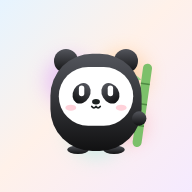
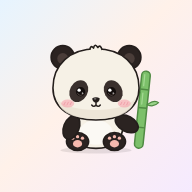
Redesenha o panda em estilo chibi, mais fofo e animado
Cabeça grande, corpo pequeno, olhos escuros e brilhantes, bochechas
rosadas e patinhas com almofadas rosa. Orelhas e patinhas ganham
movimento, e os brilhos/corações voltam a aparecer no lugar certo.
Ícones do app regenerados.

Claude-Session: https://claude.ai/code/session_01Tv7QxRH9SMgdERGyotspDp

Changed region(s): [[0.25, 0.2188, 0.8438, 0.8125]]

diff --git a/panda.js b/panda.js
@@ -25,55 +25,68 @@
     mao: { '': 'Nada', bambu: 'Segurando bambu' },
   };
 
-  /* ---------- partes do desenho ---------- */
+  /* ---------- partes do desenho ----------
+     Estilo "chibi": cabeça grande, corpo pequeno, olhos escuros e brilhantes dentro
+     das manchas, focinho miúdo, bochechas rosadas e patinhas com almofadas rosa. */
+  const OLHO = '#120d0c';       // olho (mais escuro que a mancha)
+  const MANCHA = '#3a302d';     // manchas dos olhos
+  const SOMBRA = '#ebe2d3';     // sombra suave do pelo claro
+  const ALMOFADA = '#f6b9ae';   // almofadinhas rosa
+  const EX = 75, DX = 125, OY = 98; // centro dos olhos
+
   function olhos(h) {
-    const L = 76, R = 124, Y = 90;
-    // A pupila fica num grupo próprio para poder seguir o mouse/dedo.
-    const aberto = (x, dy = 0) => `<circle cx="${x}" cy="${Y}" r="8" fill="${BR}"/><g class="pupila"><circle cx="${x + .5}" cy="${Y + 1 + dy}" r="6" fill="#1a1514"/>` +
-      `<circle cx="${x - 2}" cy="${Y - 2 + dy}" r="2.4" fill="${BR}"/><circle cx="${x + 2.6}" cy="${Y + 3 + dy}" r="1.2" fill="${BR}"/></g>`;
-    const arco = (x, d) => `<path d="M${x - 8} ${Y} q8 ${d} 16 0" fill="none" stroke="${BR}" stroke-width="3.5" stroke-linecap="round"/>`;
-    const meio = x => `<path d="M${x - 8} ${Y} a8 8 0 0 0 16 0 z" fill="${BR}"/><g class="pupila"><circle cx="${x}" cy="${Y + 3}" r="3.6" fill="#1a1514"/></g>`;
+    // O olho inteiro fica num grupo próprio para poder seguir o mouse/dedo.
+    const aberto = (x, o = {}) => `<g class="pupila"><circle cx="${x}" cy="${OY + (o.dy || 0)}" r="${o.r || 7.6}" fill="${OLHO}"/>` +
+      `<path d="M${x - 5} ${OY + 2.5 + (o.dy || 0)} a5.4 5.4 0 0 0 10 0" fill="none" stroke="#7a6862" stroke-width="1.3" stroke-linecap="round" opacity=".7"/>` +
+      `<circle cx="${x - 2.4}" cy="${OY - 2.6 + (o.dy || 0)}" r="${o.brilho || 2.7}" fill="${BR}"/><circle cx="${x + 3}" cy="${OY + 2.2 + (o.dy || 0)}" r="1.2" fill="${BR}"/>` +
+      (o.extra ? `<circle cx="${x + 2.6}" cy="${OY - 3.4 + (o.dy || 0)}" r="1" fill="${BR}"/>` : '') + `</g>`;
+    const arco = (x, d) => `<path d="M${x - 7.5} ${OY + (d < 0 ? 2 : -1)} q7.5 ${d} 15 0" fill="none" stroke="${B}" stroke-width="3" stroke-linecap="round"/>`;
+    // Pálpebra na cor da mancha: "corta" o olho (reto = preguiça, inclinado = bravo).
+    const palpebra = (x, incl) => `<path d="M${x - 11} ${OY - 12} H${x + 11} V${OY - 1 + incl} L${x - 11} ${OY - 1 - incl} Z" fill="${MANCHA}"/>`;
     switch (h) {
-      case 'feliz': return arco(L, -9) + arco(R, -9);
-      case 'dormindo': return arco(L, 7) + arco(R, 7);
-      case 'bravo': return meio(L) + meio(R);
-      case 'preguica': return meio(L) + meio(R) + `<path d="M${L - 9} ${Y}h18M${R - 9} ${Y}h18" stroke="${B}" stroke-width="3" stroke-linecap="round"/>`;
-      case 'triste': return aberto(L, 2) + aberto(R, 2);
-      default: return aberto(L) + aberto(R);
+      case 'feliz': return arco(EX, -8) + arco(DX, -8);
+      case 'dormindo': return arco(EX, 6) + arco(DX, 6) +
+        `<path d="M${EX - 8} ${OY + 1} l-3 2 M${DX + 8} ${OY + 1} l3 2" stroke="${B}" stroke-width="2" stroke-linecap="round"/>`;
+      case 'bravo': return aberto(EX, { r: 7 }) + aberto(DX, { r: 7 }) + palpebra(EX, 4) + palpebra(DX, -4);
+      case 'preguica': return aberto(EX, { dy: 1 }) + aberto(DX, { dy: 1 }) + palpebra(EX, 0) + palpebra(DX, 0) +
+        `<path d="M${EX - 8} ${OY - 1}h16M${DX - 8} ${OY - 1}h16" stroke="${B}" stroke-width="2.2" stroke-linecap="round" opacity=".85"/>`;
+      case 'triste': return aberto(EX, { dy: 1.5, brilho: 3.2, extra: true }) + aberto(DX, { dy: 1.5, brilho: 3.2, extra: true });
+      default: return aberto(EX) + aberto(DX);
     }
   }
 
   function boca(h) {
-    const s = `fill="none" stroke="${C}" stroke-width="3" stroke-linecap="round" stroke-linejoin="round"`;
+    const s = `fill="none" stroke="${C}" stroke-width="2.4" stroke-linecap="round" stroke-linejoin="round"`;
     switch (h) {
-      case 'feliz': return `<path d="M90 111 Q100 127 110 111 Z" fill="#5a2a2f" stroke="${C}" stroke-width="2.5" stroke-linejoin="round"/><ellipse cx="100" cy="119" rx="5" ry="3" fill="${ROSA}"/>`;
-      case 'triste': return `<path d="M92 120 q8 -8 16 0" ${s}/>`;
-      case 'bravo': return `<path d="M90 119 l5 -4 l5 4 l5 -4 l5 4" ${s}/>`;
-      case 'dormindo': return `<ellipse cx="100" cy="116" rx="3.5" ry="4.5" fill="${C}"/>`;
-      case 'preguica': return `<path d="M94 115 q6 2 12 0" ${s}/>`;
-      default: return `<path d="M92 111 q4 5 8 0 q4 5 8 0" ${s}/>`;
+      case 'feliz': return `<path d="M92 119 Q100 132 108 119 Z" fill="#6b2f36" stroke="${C}" stroke-width="2.2" stroke-linejoin="round"/><ellipse cx="100" cy="125.5" rx="4" ry="2.4" fill="${ROSA}"/>`;
+      case 'triste': return `<path d="M94 125 q6 -6 12 0" ${s}/>`;
+      case 'bravo': return `<path d="M94 125 q6 -5 12 0" ${s}/>`;
+      case 'dormindo': return `<ellipse cx="100" cy="123" rx="2.8" ry="3.6" fill="${C}"/>`;
+      case 'preguica': return `<path d="M95 122 q5 2 10 0" ${s}/>`;
+      default: return `<path d="M100 115.5 v3 M93 119.5 q3.5 4.5 7 0 q3.5 4.5 7 0" ${s}/>`;
     }
   }
 
   function sobrancelhas(h) {
     const s = `fill="none" stroke="${C}" stroke-width="3.2" stroke-linecap="round"`;
-    if (h === 'bravo') return `<path d="M60 64 L84 73 M140 64 L116 73" ${s}/>`;
-    if (h === 'triste') return `<path d="M62 72 L82 66 M138 72 L118 66" ${s}/>`;
+    if (h === 'bravo') return `<path d="M57 73 L83 83 M143 73 L117 83" ${s}/>`;
+    if (h === 'triste') return `<path d="M58 78 L78 72 M142 78 L122 72" ${s}/>`;
     return '';
   }
 
   function extrasRosto(h) {
     let s = '';
-    if (h === 'triste') s += `<path class="lagrima" d="M68 104 q-5 8 0 11 q5 -3 0 -11z" fill="#7cc3f5"/>`;
-    if (h === 'bravo') s += `<path d="M146 44 q5 5 0 10 M156 44 q-5 5 0 10 M146 44 q5 5 10 0 M146 54 q5 -5 10 0" fill="none" stroke="${VERMELHO}" stroke-width="3" stroke-linecap="round"/>`;
+    if (h === 'triste') s += `<path class="lagrima" d="M64 112 q-4.5 7.5 0 10 q4.5 -2.5 0 -10z" fill="#8ccdf7" stroke="#5aa9dc" stroke-width="1"/>`;
+    if (h === 'bravo') s += `<path d="M160 30 q5 5 0 10 M170 30 q-5 5 0 10 M160 30 q5 5 10 0 M160 40 q5 -5 10 0" fill="none" stroke="${VERMELHO}" stroke-width="3" stroke-linecap="round"/>`;
     return s;
   }
 
   function cabecaAcessorio(a) {
     switch (a) {
-      case 'chapeu': return `<path d="M56 52 Q58 12 100 10 Q142 12 144 52 Z" fill="#cdb98a" stroke="#a8925f" stroke-width="2.5"/>` +
-        `<path d="M58 44 Q100 34 142 44" fill="none" stroke="#a8925f" stroke-width="5"/>` +
-        `<ellipse cx="100" cy="53" rx="74" ry="14" fill="#d8c597" stroke="#a8925f" stroke-width="2.5"/>`;
+      case 'chapeu': return `<path d="M56 52 Q58 12 100 10 Q142 12 144 52 Z" fill="#d6c594" stroke="#a8925f" stroke-width="2.5" stroke-linejoin="round"/>` +
+        `<path d="M100 11 V44 M72 20 Q80 34 78 46 M128 20 Q120 34 122 46" fill="none" stroke="#a8925f" stroke-width="1.5" stroke-dasharray="3 3" opacity=".8"/>` +
+        `<path d="M58 44 Q100 34 142 44" fill="none" stroke="#a8925f" stroke-width="4"/>` +
+        `<path d="M26 56 Q100 30 174 56 Q178 66 166 68 Q100 50 34 68 Q22 66 26 56 Z" fill="#e0d0a2" stroke="#a8925f" stroke-width="2.5" stroke-linejoin="round"/>`;
       case 'bone': return `<path d="M42 66 Q44 10 100 8 Q156 10 158 66 Q100 50 42 66 Z" fill="${VERMELHO}" stroke="${VERMELHO_E}" stroke-width="2.5"/>` +
         `<path d="M100 9 V58" stroke="${VERMELHO_E}" stroke-width="2"/><circle cx="100" cy="10" r="5" fill="${VERMELHO_E}"/>` +
         `<path d="M148 58 Q182 48 194 62 Q172 74 150 70 Z" fill="#3b6fd8" stroke="#2c56b0" stroke-width="2.5"/>`;
@@ -87,28 +100,30 @@
         `<circle cx="76" cy="52" r="1.8" fill="#7d8593"/><circle cx="124" cy="52" r="1.8" fill="#7d8593"/><circle cx="76" cy="64" r="1.8" fill="#7d8593"/><circle cx="124" cy="64" r="1.8" fill="#7d8593"/>` +
         `<ellipse cx="100" cy="62" rx="5.5" ry="4.2" fill="#6b7280"/><circle cx="93.5" cy="55.5" r="2.2" fill="#6b7280"/><circle cx="100" cy="53.5" r="2.2" fill="#6b7280"/><circle cx="106.5" cy="55.5" r="2.2" fill="#6b7280"/>`;
       case 'fone': return `<path d="M38 92 Q38 18 100 18 Q162 18 162 92" fill="none" stroke="#4d6b40" stroke-width="9" stroke-linecap="round"/>` +
-        `<rect x="24" y="74" width="24" height="38" rx="11" fill="#6b8f5a" stroke="#4d6b40" stroke-width="2.5"/>` +
-        `<rect x="152" y="74" width="24" height="38" rx="11" fill="#6b8f5a" stroke="#4d6b40" stroke-width="2.5"/>`;
+        `<rect x="24" y="74" width="24" height="38" rx="11" fill="#7d9c6a" stroke="#4d6b40" stroke-width="2.5"/>` +
+        `<rect x="152" y="74" width="24" height="38" rx="11" fill="#7d9c6a" stroke="#4d6b40" stroke-width="2.5"/>` +
+        `<path d="M30 84 v16 M170 84 v16" stroke="#a9c495" stroke-width="3" stroke-linecap="round"/>`;
       default: return '';
     }
   }
 
   function rostoAcessorio(a) {
-    if (a === 'oculos') return `<rect x="55" y="77" width="40" height="27" rx="12" fill="${C}"/><rect x="105" y="77" width="40" height="27" rx="12" fill="${C}"/>` +
-      `<path d="M95 86 q5 -4 10 0 M55 84 L38 80 M145 84 L162 80" fill="none" stroke="${C}" stroke-width="4" stroke-linecap="round"/>` +
-      `<path d="M62 85 l9 -4 M112 85 l9 -4" stroke="${B}" stroke-opacity=".55" stroke-width="3" stroke-linecap="round"/>`;
-    if (a === 'bambuBoca') return `<path d="M38 108 Q48 118 60 116 M140 116 Q152 118 162 108" fill="none" stroke="#3a3d44" stroke-width="3" stroke-linecap="round"/>` +
-      `<rect x="58" y="109" width="84" height="15" rx="7.5" fill="${VERDE}" stroke="${VERDE_E}" stroke-width="2.5"/>` +
-      `<path d="M84 109v15M116 109v15" stroke="${VERDE_E}" stroke-width="2.5"/>`;
+    if (a === 'oculos') return `<rect x="55" y="77" width="40" height="27" rx="12" fill="#17181c"/><rect x="105" y="77" width="40" height="27" rx="12" fill="#17181c"/>` +
+      `<path d="M95 86 q5 -4 10 0 M55 84 L38 80 M145 84 L162 80" fill="none" stroke="#17181c" stroke-width="4" stroke-linecap="round"/>` +
+      `<path d="M62 85 l9 -4 M112 85 l9 -4" stroke="#ffffff" stroke-opacity=".5" stroke-width="3" stroke-linecap="round"/>`;
+    if (a === 'bambuBoca') return `<rect x="62" y="110" width="76" height="13" rx="6.5" fill="${VERDE}" stroke="${VERDE_E}" stroke-width="2.2"/>` +
+      `<path d="M86 110v13M114 110v13" stroke="${VERDE_E}" stroke-width="2.2"/>` +
+      `<path d="M138 114 q10 -8 16 -3 q-7 7 -16 3z" fill="#9ad38a" stroke="${VERDE_E}" stroke-width="1.8"/>`;
     return '';
   }
 
+  // A posição fica num <g> de fora: a animação CSS usa "transform" e apagaria o translate.
   function efeitos(h) {
-    const coracao = (x, y, cls) => `<path class="fx ${cls}" transform="translate(${x} ${y})" d="M0 3 C0 -2 -7 -2 -7 3 C-7 7 0 11 0 11 C0 11 7 7 7 3 C7 -2 0 -2 0 3Z" fill="#ff6b8a"/>`;
-    const brilho = (x, y, cls) => `<path class="fx ${cls}" transform="translate(${x} ${y})" d="M0 -7 L2 -2 L7 0 L2 2 L0 7 L-2 2 L-7 0 L-2 -2Z" fill="#f3c74f"/>`;
-    if (h === 'feliz') return coracao(176, 34, 'sobe') + coracao(22, 52, 'sobe d2') + brilho(30, 22, 'pisca');
-    if (h === 'fofo') return brilho(178, 30, 'pisca') + brilho(24, 40, 'pisca d2');
-    if (h === 'dormindo') return [0, 1, 2].map(i => `<text class="fx zzz d${i}" x="${160 + i * 10}" y="${44 - i * 12}" font-size="${14 + i * 5}" font-weight="700" font-family="Outfit, sans-serif">z</text>`).join('');
+    const coracao = (x, y, cls) => `<g transform="translate(${x} ${y})"><path class="fx ${cls}" d="M0 3 C0 -2 -7 -2 -7 3 C-7 7 0 11 0 11 C0 11 7 7 7 3 C7 -2 0 -2 0 3Z" fill="#ff7d98" stroke="#e85b7b" stroke-width="1"/></g>`;
+    const brilho = (x, y, cls) => `<g transform="translate(${x} ${y})"><path class="fx ${cls}" d="M0 -8 Q1 -1 8 0 Q1 1 0 8 Q-1 1 -8 0 Q-1 -1 0 -8Z" fill="#f6cf62"/></g>`;
+    if (h === 'feliz') return coracao(184, 26, 'sobe') + coracao(14, 62, 'sobe d2') + brilho(18, 22, 'pisca');
+    if (h === 'fofo') return brilho(186, 22, 'pisca') + brilho(14, 26, 'pisca d2');
+    if (h === 'dormindo') return [0, 1, 2].map(i => `<text class="fx zzz d${i}" x="${164 + i * 10}" y="${34 - i * 11}" font-size="${13 + i * 5}" font-weight="700" font-family="Outfit, sans-serif">z</text>`).join('');
     return '';
   }
 
@@ -116,66 +131,84 @@
   function PandaSVG(o = {}) {
     const h = HUMORES.includes(o.humor) ? o.humor : 'fofo';
     const casaco = o.roupa === 'casaco';
-    const ROUPA = { casaco: [MARROM], dino: ['#8fc79a', '#5f9b6b'], moletom: ['#f4a6c0', '#d77b9d'] }[o.roupa];
+    const ROUPA = { casaco: ['#b08460', '#7a5034'], dino: ['#9ccaa0', '#5f9b6b'], moletom: ['#f6b3c9', '#d77b9d'] }[o.roupa];
     const vestido = !!ROUPA;
     const bambu = o.mao === 'bambu';
     const corpo = vestido ? ROUPA[0] : B;
     const manga = vestido ? ROUPA[0] : P;
+    const borda = vestido ? ROUPA[1] : C;
+    const t = `stroke="${C}" stroke-width="2.6" stroke-linejoin="round"`;   // contorno padrão
+    const capuzado = o.roupa === 'dino' || o.roupa === 'moletom';
+
+    const chao = `<ellipse cx="100" cy="193" rx="58" ry="5.5" fill="#000" opacity=".09"/>`;
 
     // Capuz (dinossauro e moletom) fica atrás da cabeça.
-    const capuz = (o.roupa === 'dino' ? `<path d="M54 50 L58 20 L78 38 Z M86 34 L100 6 L114 34 Z M146 50 L142 20 L122 38 Z" fill="#6aa877" stroke="${ROUPA[1]}" stroke-width="2.5" stroke-linejoin="round"/>` : '') +
-      (o.roupa === 'dino' || o.roupa === 'moletom' ? `<ellipse cx="100" cy="90" rx="74" ry="63" fill="${ROUPA[0]}" stroke="${ROUPA[1]}" stroke-width="3"/>` : '');
-    const orelhas = o.roupa === 'dino' ? '' : `<circle cx="52" cy="46" r="20" fill="${P}"/><circle cx="148" cy="46" r="20" fill="${P}"/>`;
-    const rabo = o.roupa === 'dino' ? `<path d="M140 176 Q186 186 196 150 Q182 160 172 158 Q160 166 146 162 Z" fill="${ROUPA[0]}" stroke="${ROUPA[1]}" stroke-width="2.5" stroke-linejoin="round"/>` +
-      `<path d="M176 160 l6 -9 l4 10 M186 156 l7 -7 l2 10" fill="#6aa877" stroke="${ROUPA[1]}" stroke-width="2" stroke-linejoin="round"/>` : '';
+    const capuz = (o.roupa === 'dino' ? `<path d="M50 44 L52 12 L76 30 Z M86 26 L100 0 L114 26 Z M150 44 L148 12 L124 30 Z" fill="#7fb98a" stroke="${ROUPA[1]}" stroke-width="2.5" stroke-linejoin="round"/>` : '') +
+      (o.roupa === 'moletom' ? `<circle cx="42" cy="38" r="15" fill="${ROUPA[0]}" stroke="${ROUPA[1]}" stroke-width="2.5"/><circle cx="158" cy="38" r="15" fill="${ROUPA[0]}" stroke="${ROUPA[1]}" stroke-width="2.5"/>` : '') +
+      (capuzado ? `<path d="M100 16 C150 16 182 46 182 92 C182 132 148 152 100 152 C52 152 18 132 18 92 C18 46 50 16 100 16 Z" fill="${ROUPA[0]}" stroke="${ROUPA[1]}" stroke-width="2.6"/>` : '') +
+      (o.roupa === 'dino' ? `<circle cx="64" cy="27" r="3" fill="${ROUPA[1]}"/><circle cx="136" cy="27" r="3" fill="${ROUPA[1]}"/>` : '');
+    const orelha = x => `<g class="orelha ${x < 100 ? 'e' : 'd'}"><circle cx="${x}" cy="42" r="19" fill="${P}" ${t}/><circle cx="${x}" cy="44" r="9" fill="#4a3d39"/></g>`;
+    const orelhas = capuzado ? '' : orelha(46) + orelha(154);
+    const rabo = o.roupa === 'dino' ? `<path d="M134 178 Q182 190 194 152 Q180 162 170 160 Q158 168 142 164 Z" fill="${ROUPA[0]}" stroke="${ROUPA[1]}" stroke-width="2.5" stroke-linejoin="round"/>` +
+      `<path d="M174 162 l6 -9 l4 10 M184 158 l7 -7 l2 10" fill="#7fb98a" stroke="${ROUPA[1]}" stroke-width="2" stroke-linejoin="round"/>` : '';
     const fx = o.efeitos === false ? '' : efeitos(h);
 
-    const pes = [70, 130].map(x => `<ellipse cx="${x}" cy="184" rx="20" ry="13" fill="${P}"/><circle cx="${x}" cy="186" r="6" fill="${PATA}"/>` +
-      `<circle cx="${x - 8}" cy="179" r="2.4" fill="${PATA}"/><circle cx="${x}" cy="176.5" r="2.4" fill="${PATA}"/><circle cx="${x + 8}" cy="179" r="2.4" fill="${PATA}"/>`).join('');
+    // Patinhas de trás viradas para a frente, com almofadas rosa.
+    const pes = [70, 130].map(x => `<g class="pe ${x < 100 ? 'e' : 'd'}"><ellipse cx="${x}" cy="179" rx="18" ry="14.5" fill="${P}" ${t}/>` +
+      `<ellipse cx="${x}" cy="182.5" rx="7.5" ry="6" fill="${ALMOFADA}"/>` +
+      `<circle cx="${x - 8}" cy="173.5" r="2.7" fill="${ALMOFADA}"/><circle cx="${x}" cy="171" r="2.7" fill="${ALMOFADA}"/><circle cx="${x + 8}" cy="173.5" r="2.7" fill="${ALMOFADA}"/></g>`).join('');
 
-    const barriga = `<ellipse cx="100" cy="150" rx="54" ry="42" fill="${corpo}" stroke="${C}" stroke-width="3"/>` +
-      // Faixa escura dos ombros, ligando as patas da frente (como no panda real).
-      (vestido ? '' : `<path d="M48 126 Q100 150 152 126 L154 148 Q100 172 46 148 Z" fill="${P}"/>`) +
-      (casaco ? `<ellipse cx="100" cy="158" rx="17" ry="32" fill="${B}"/><path d="M83 128 L100 150 L117 128" fill="none" stroke="#7a5034" stroke-width="3" stroke-linejoin="round"/>` +
-        `<circle cx="100" cy="164" r="2.6" fill="#7a5034"/><circle cx="100" cy="176" r="2.6" fill="#7a5034"/>` : '') +
-      (o.roupa === 'dino' ? `<ellipse cx="100" cy="160" rx="30" ry="27" fill="#e3f3d6"/><path d="M76 150 h48 M72 162 h56 M76 174 h48" stroke="#b9dca5" stroke-width="2.5" stroke-linecap="round"/>` : '') +
-      (o.roupa === 'moletom' ? `<path d="M76 158 h48 l5 22 h-58 z" fill="#e98fae" stroke="#d77b9d" stroke-width="2" stroke-linejoin="round"/>` +
-        `<path d="M92 140 v16 M108 140 v16" stroke="${B}" stroke-width="2.5" stroke-linecap="round"/><circle cx="92" cy="158" r="2.6" fill="${B}"/><circle cx="108" cy="158" r="2.6" fill="${B}"/>` : '');
+    // Enfeites da roupa foram desenhados para uma barriga maior: aqui só encolhem um pouco.
+    const enfeite = s => `<g transform="translate(100 158) scale(.8) translate(-100 -152)">${s}</g>`;
+    const barriga = `<path d="M56 152 C56 130 76 124 100 124 C124 124 144 130 144 152 C144 178 126 190 100 190 C74 190 56 178 56 152 Z" fill="${corpo}" stroke="${borda}" stroke-width="2.6"/>` +
+      (vestido ? '' : `<ellipse cx="100" cy="164" rx="27" ry="20" fill="${BR}" opacity=".55"/>`) +
+      (casaco ? enfeite(`<ellipse cx="100" cy="158" rx="17" ry="32" fill="${B}"/><path d="M83 128 L100 150 L117 128" fill="none" stroke="#7a5034" stroke-width="3" stroke-linejoin="round"/>` +
+        `<circle cx="100" cy="164" r="2.6" fill="#7a5034"/><circle cx="100" cy="176" r="2.6" fill="#7a5034"/>`) : '') +
+      (o.roupa === 'dino' ? enfeite(`<ellipse cx="100" cy="160" rx="30" ry="27" fill="#f1ecd6"/><path d="M76 150 h48 M72 162 h56 M76 174 h48" stroke="#d9cfa6" stroke-width="2.5" stroke-linecap="round"/>`) : '') +
+      (o.roupa === 'moletom' ? enfeite(`<path d="M76 158 h48 l5 22 h-58 z" fill="#ef9cb8" stroke="#d77b9d" stroke-width="2" stroke-linejoin="round"/>` +
+        `<path d="M92 140 v16 M108 140 v16" stroke="${B}" stroke-width="2.5" stroke-linecap="round"/><circle cx="92" cy="158" r="2.6" fill="${B}"/><circle cx="108" cy="158" r="2.6" fill="${B}"/>`) : '');
 
-    const vara = bambu ? `<g transform="rotate(10 164 140)"><rect x="156" y="52" width="15" height="136" rx="7.5" fill="${VERDE}" stroke="${VERDE_E}" stroke-width="2.5"/>` +
-      `<path d="M156 84h15M156 116h15M156 150h15" stroke="${VERDE_E}" stroke-width="2.5"/>` +
-      `<path d="M171 112 q14 -9 20 -3 q-9 8 -20 3z" fill="#9ad38a" stroke="${VERDE_E}" stroke-width="2"/></g>` : '';
+    const vara = bambu ? `<g transform="rotate(6 173 150)"><rect x="166" y="64" width="14" height="126" rx="7" fill="${VERDE}" stroke="${VERDE_E}" stroke-width="2.4"/>` +
+      `<path d="M166 94h14M166 124h14M166 156h14" stroke="${VERDE_E}" stroke-width="2.4"/>` +
+      `<path d="M171 70 v18 M171 100 v18" stroke="#b5e3a4" stroke-width="2" stroke-linecap="round" opacity=".7"/>` +
+      `<path d="M180 118 q11 -10 18 -5 q-7 9 -18 5z" fill="#9ad38a" stroke="${VERDE_E}" stroke-width="1.8"/>` +
+      `<path d="M166 100 q-10 -9 -16 -3 q7 8 16 3z" fill="#9ad38a" stroke="${VERDE_E}" stroke-width="1.8"/></g>` : '';
 
-    const bracoE = `<ellipse cx="54" cy="150" rx="15" ry="24" transform="rotate(25 54 150)" fill="${manga}"/>` + (vestido ? `<circle cx="44" cy="171" r="9" fill="${P}"/>` : '');
-    const bracoD = bambu
-      ? `<ellipse cx="152" cy="142" rx="15" ry="24" transform="rotate(-55 152 142)" fill="${manga}"/>` + (vestido ? `<circle cx="170" cy="130" r="9" fill="${P}"/>` : '')
-      : `<ellipse cx="146" cy="150" rx="15" ry="24" transform="rotate(-25 146 150)" fill="${manga}"/>` + (vestido ? `<circle cx="156" cy="171" r="9" fill="${P}"/>` : '');
+    const mao = (x, y) => vestido ? `<circle cx="${x}" cy="${y}" r="8" fill="${P}" ${t}/>` : '';
+    const braco = (x, y, rot) => `<ellipse cx="${x}" cy="${y}" rx="12.5" ry="20" transform="rotate(${rot} ${x} ${y})" fill="${manga}" stroke="${borda}" stroke-width="2.6"/>`;
+    const bracoE = braco(60, 156, 22) + mao(53, 172);
+    const bracoD = bambu ? braco(150, 150, -62) + mao(166, 142) : braco(140, 156, -22) + mao(147, 172);
 
     const cachecol = o.roupa === 'cachecol'
-      ? `<path d="M50 134 Q100 158 150 134 L153 149 Q100 173 47 149 Z" fill="${VERMELHO}" stroke="${VERMELHO_E}" stroke-width="2"/>` +
-        `<path d="M54 142 Q100 164 146 142" fill="none" stroke="${B}" stroke-opacity=".5" stroke-width="2"/>` +
-        `<path d="M114 152 L130 150 L136 184 L120 186 Z" fill="${VERMELHO}" stroke="${VERMELHO_E}" stroke-width="2"/>` +
-        `<path d="M122 186v6M128 185v6M134 184v6" stroke="${VERMELHO}" stroke-width="2.5" stroke-linecap="round"/>`
+      ? `<path d="M50 132 Q100 156 150 132 L153 147 Q100 171 47 147 Z" fill="${VERMELHO}" stroke="${VERMELHO_E}" stroke-width="2"/>` +
+        `<path d="M56 141 Q100 162 144 141" fill="none" stroke="#ffffff" stroke-opacity=".35" stroke-width="2"/>` +
+        `<path d="M112 152 L129 150 L135 182 L118 184 Z" fill="${VERMELHO}" stroke="${VERMELHO_E}" stroke-width="2" stroke-linejoin="round"/>` +
+        `<path d="M120 184v6M126 183v6M132 182v6" stroke="${VERMELHO_E}" stroke-width="2.5" stroke-linecap="round"/>`
       : '';
+
+    const bochecha = x => `<ellipse cx="${x}" cy="117" rx="10.5" ry="6.5" fill="#f79aa8" opacity="${h === 'bravo' ? .75 : .55}"/>` +
+      `<path d="M${x - 4} 115 l-2 4 M${x + 1} 115 l-2 4 M${x + 6} 115 l-2 4" stroke="#e8778a" stroke-width="1.2" stroke-linecap="round" opacity=".6"/>`;
 
     const cabeca = `<g class="cabeca">
       ${capuz}${orelhas}
-      <ellipse cx="100" cy="90" rx="64" ry="54" fill="${B}" stroke="${C}" stroke-width="3"/>
-      <ellipse cx="74" cy="92" rx="15" ry="19" transform="rotate(30 74 92)" fill="${P}"/>
-      <ellipse cx="126" cy="92" rx="15" ry="19" transform="rotate(-30 126 92)" fill="${P}"/>
+      <path d="M100 28 C142 28 170 54 170 92 C170 126 140 144 100 144 C60 144 30 126 30 92 C30 54 58 28 100 28 Z" fill="${B}" ${t}/>
+      <path d="M36 108 C52 134 148 134 164 108 C160 132 136 142 100 142 C64 142 40 132 36 108 Z" fill="${SOMBRA}" opacity=".8"/>
+      ${capuzado || o.cabeca ? '' : `<path d="M90 30 q1 -9 6 -3 q2 -9 7 -1 q4 -6 7 4" fill="${B}" ${t}/>`}
+      <ellipse cx="72" cy="97" rx="14.5" ry="18.5" transform="rotate(28 72 97)" fill="${MANCHA}"/>
+      <ellipse cx="128" cy="97" rx="14.5" ry="18.5" transform="rotate(-28 128 97)" fill="${MANCHA}"/>
       <g class="olhos">${olhos(h)}</g>
       ${sobrancelhas(h)}
-      <ellipse cx="62" cy="114" rx="10" ry="6" fill="#f08a9b" opacity="${h === 'bravo' ? .6 : .3}"/>
-      <ellipse cx="138" cy="114" rx="10" ry="6" fill="#f08a9b" opacity="${h === 'bravo' ? .6 : .3}"/>
-      <ellipse cx="100" cy="103" rx="7" ry="5" fill="${C}"/>
+      ${bochecha(54)}${bochecha(146)}
+      <path d="M94 108.5 Q100 105 106 108.5 Q106 114.5 100 116 Q94 114.5 94 108.5 Z" fill="${C}"/>
+      <ellipse cx="98.5" cy="109.5" rx="2.2" ry="1.1" fill="${BR}" opacity=".5"/>
       ${boca(h)}
       ${extrasRosto(h)}
-      ${rostoAcessorio(o.rosto)}
-      ${cabecaAcessorio(o.cabeca)}
+      <g transform="translate(100 97) scale(1.08) translate(-100 -90)">${rostoAcessorio(o.rosto)}</g>
+      <g transform="translate(100 88) scale(1.09) translate(-100 -92)">${cabecaAcessorio(o.cabeca)}</g>
     </g>`;
 
     return `<svg class="panda-svg h-${h}" viewBox="0 0 200 200" xmlns="http://www.w3.org/2000/svg" aria-hidden="true">` +
-      rabo + vara + barriga + pes + bracoE + bracoD + cabeca + cachecol + fx + `</svg>`;
+      chao + rabo + vara + barriga + pes + bracoE + bracoD + cabeca + cachecol + fx + `</svg>`;
   }
 
   g.PandaSVG = PandaSVG;

diff --git a/styles.css b/styles.css
@@ -630,3 +630,17 @@ dialog[open]::backdrop { animation: fundo .25s ease-out; }
   .chips { flex-wrap: nowrap; overflow-x: auto; margin: 0 -22px; padding: 0 22px; scrollbar-width: none; }
   .chips::-webkit-scrollbar { display: none; }
 }
+
+/* Panda: orelhas que mexem e patinhas que balançam */
+.panda-svg .orelha, .panda-svg .pe { transform-box: fill-box; }
+.panda-svg .orelha { transform-origin: 50% 85%; animation: orelha 5s ease-in-out infinite; }
+.panda-svg .orelha.d { animation-delay: .18s; }
+.panda-svg.h-feliz .orelha { animation-duration: 1.8s; }
+.panda-svg.h-triste .orelha.e, .panda-svg.h-dormindo .orelha.e { animation: none; transform: rotate(-12deg) translateY(2px); }
+.panda-svg.h-triste .orelha.d, .panda-svg.h-dormindo .orelha.d { animation: none; transform: rotate(12deg) translateY(2px); }
+.panda-svg .pe { transform-origin: 50% 100%; }
+.panda-svg.h-fofo .pe { animation: pezinho 3.4s ease-in-out infinite; }
+.panda-svg.h-feliz .pe { animation: pezinho .9s ease-in-out infinite; }
+.panda-svg .pe.d { animation-delay: .45s; }
+@keyframes orelha { 0%, 82%, 100% { transform: none; } 86% { transform: rotate(-10deg) scale(.94); } 90% { transform: rotate(6deg); } 94% { transform: rotate(-4deg); } }
+@keyframes pezinho { 0%, 100% { transform: none; } 50% { transform: rotate(-7deg) translateY(-1.5px); } }

diff --git a/sw.js b/sw.js
@@ -1,5 +1,5 @@
 // Service worker: guarda os arquivos do app para funcionar offline.
-const CACHE = 'meu-controle-v9';
+const CACHE = 'meu-controle-v10';
 const ARQUIVOS = ['./', 'index.html', 'styles.css', 'panda.js', 'app.js', 'nuvem.js', 'firebase-config.js', 'manifest.webmanifest', 'icons/icon.svg', 'icons/icon-192.png', 'icons/icon-512.png', 'icons/panda.svg', 'fonts/outfit.woff2'];
 
 self.addEventListener('install', e => {
